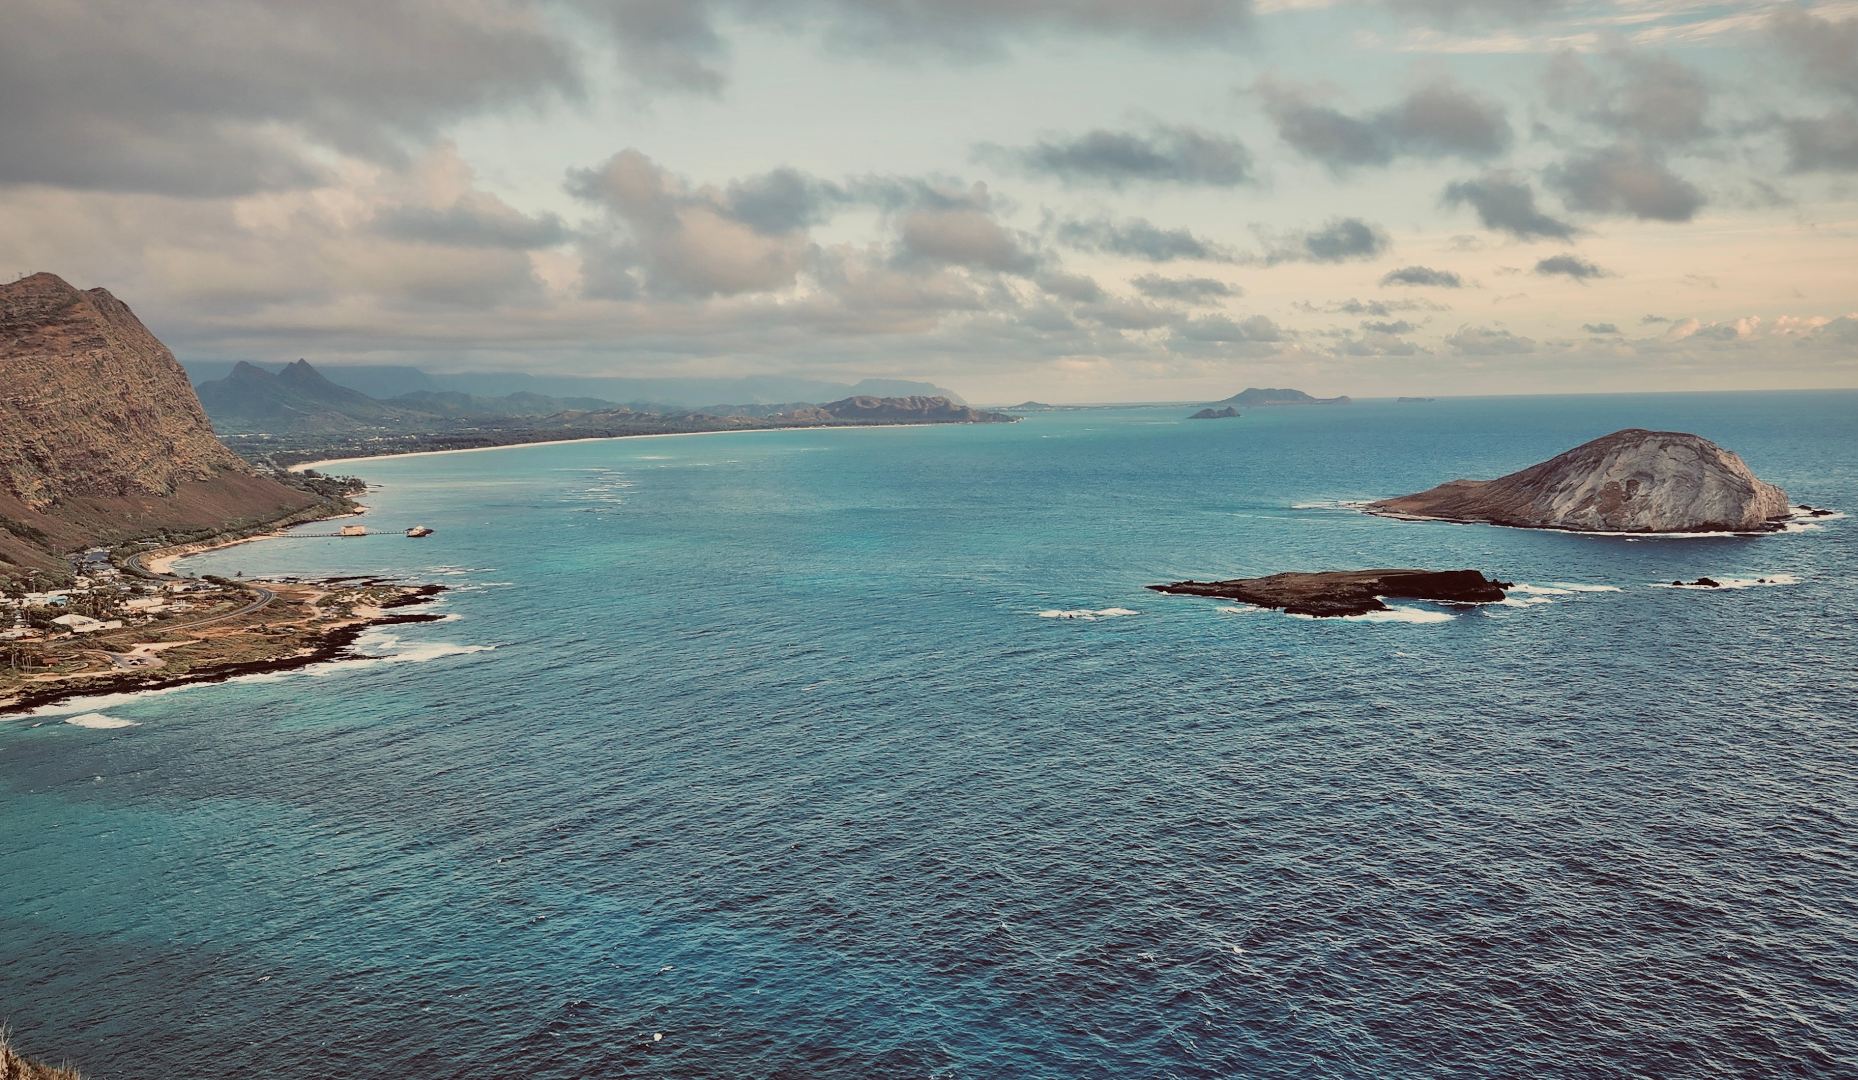
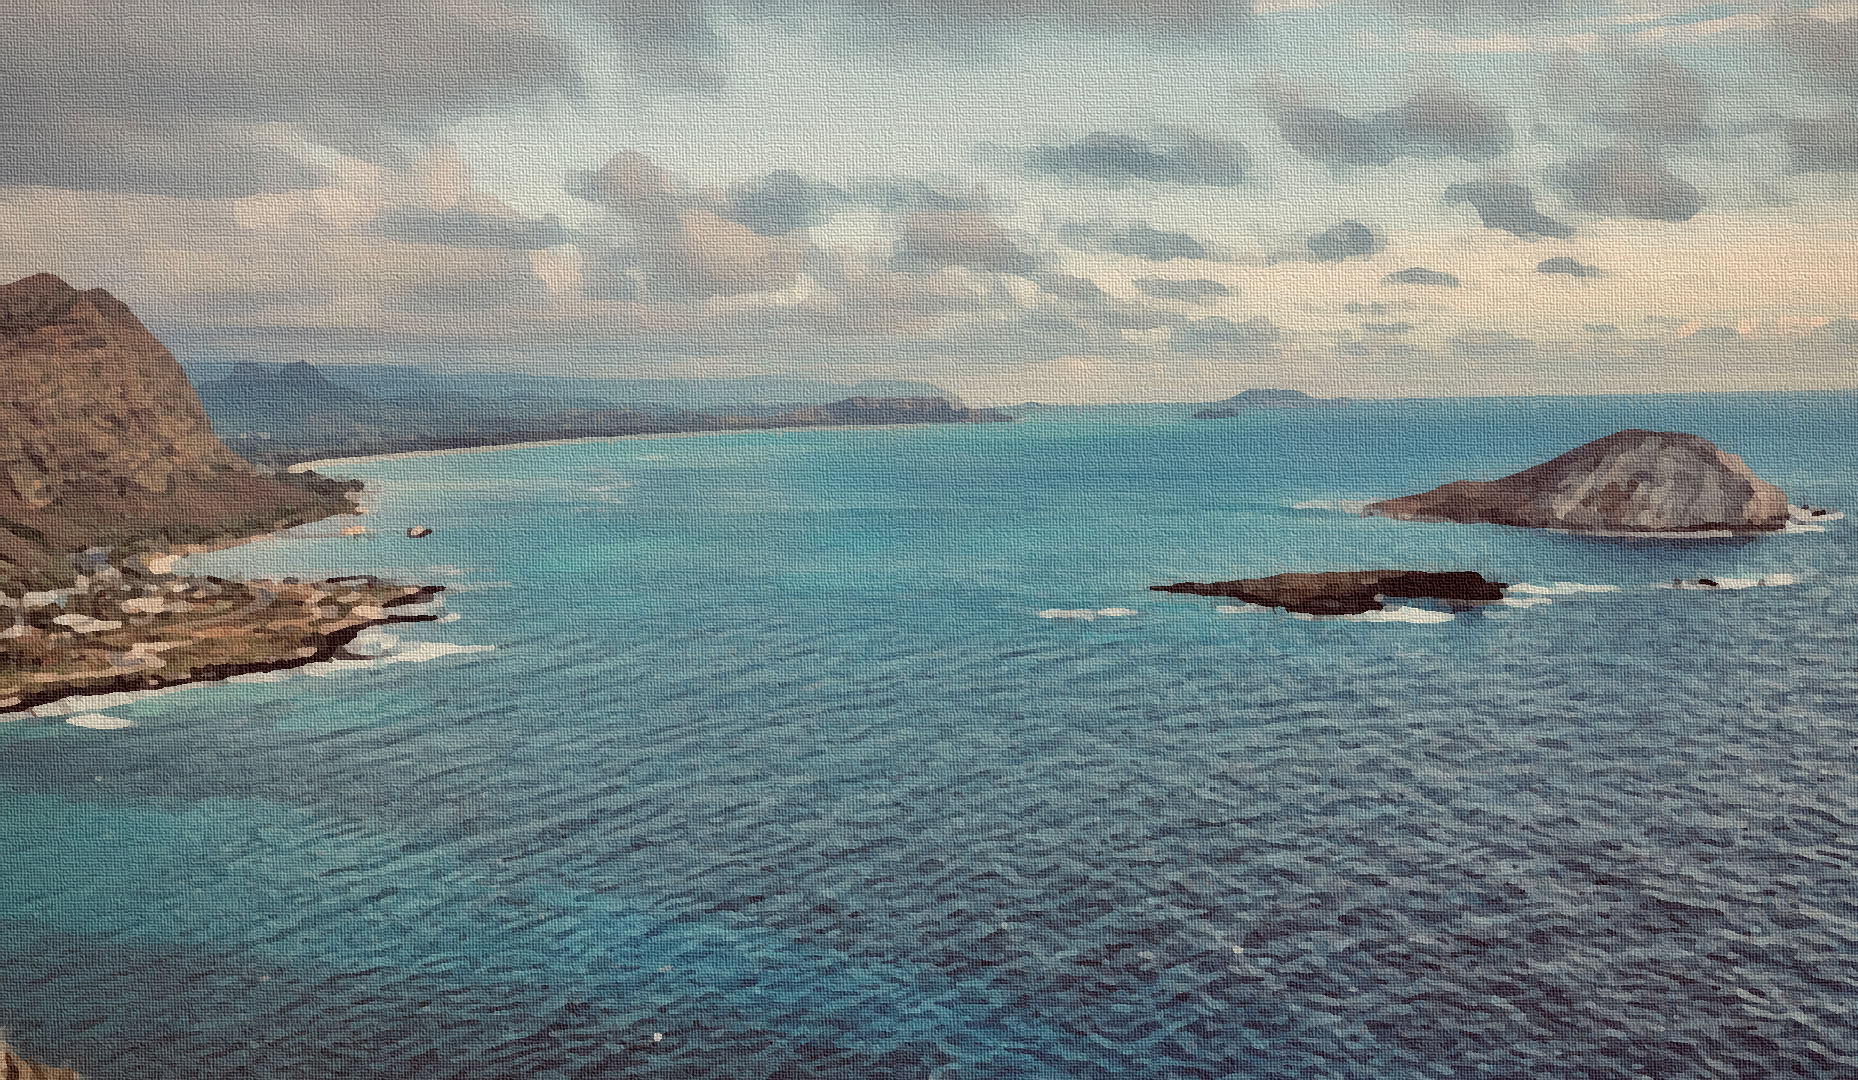
theming is now more material

diff --git a/configFiles/.config/swaync/style.css b/configFiles/.config/swaync/style.css
@@ -48,7 +48,7 @@ notificationwindow, blankwindow {
 .control-center {
     background: var(--bg1);
     border-radius: var(--border-radius1) 0 0 var(--border-radius1);
-    box-shadow: 0px 0px 40px 15px rgba(0, 0, 0, 0.9);
+    box-shadow: 0px 0px 10px 3px rgba(0, 0, 0, 0.7);
 }
 
 /*** Notifications ***/

diff --git a/configFiles/.config/waybar/style.css b/configFiles/.config/waybar/style.css
@@ -53,7 +53,7 @@ window#waybar.empty #window {
     border-top-right-radius: 100px;
     border-bottom-right-radius: 100px;
     padding-left: 8px;
-    padding-right: 16px;
+    padding-right: 12px;
 }
 
 #workspaces button.active {
